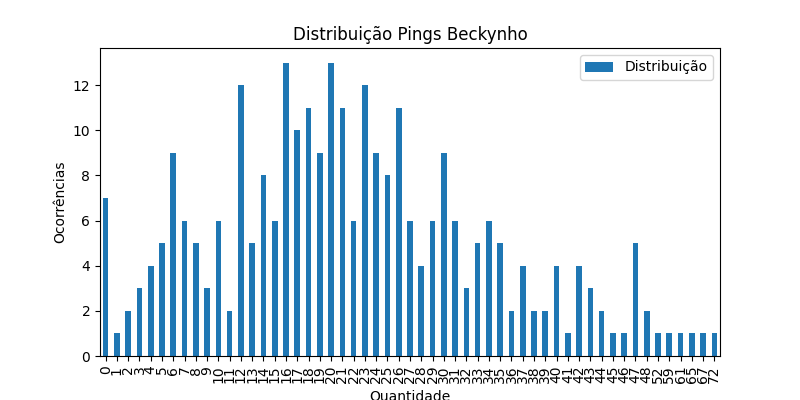
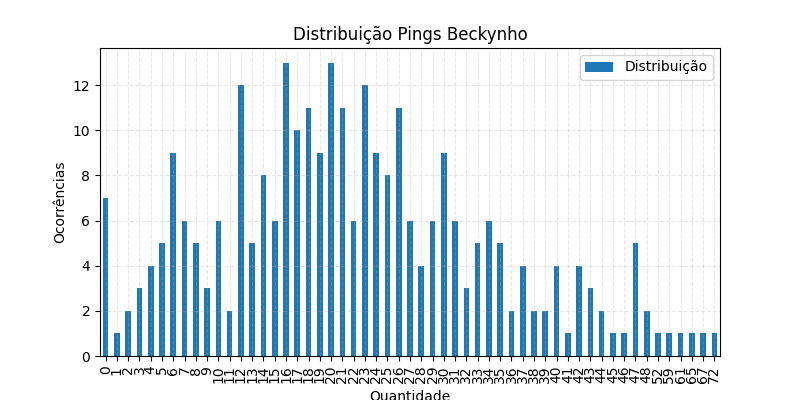
probability densisty chart

diff --git a/main.py b/main.py
@@ -312,6 +312,7 @@ def analysis_ping_overview(geral_pings_overview, save_path, player_alias):
     axs_total_pings.set_xlabel("")
     axs_total_pings.set_ylabel("Quantidade de Pings")
     axs_total_pings.set_title(f"Dispersão Pings {player_alias.capitalize()}")
+    axs_total_pings.grid(True, alpha=0.3, linestyle="--")
 
     file_total_pings = f"{save_path}ping_overview_total_{player_alias}_scatter"
     fig_total_pings.savefig(file_total_pings)
@@ -328,6 +329,7 @@ def analysis_ping_overview(geral_pings_overview, save_path, player_alias):
     axs_ratio_pings.set_xlabel("")
     axs_ratio_pings.set_ylabel("Pings/Minuto")
     axs_ratio_pings.set_title(f"Frequência Pings {player_alias.capitalize()}")
+    axs_ratio_pings.grid(True, alpha=0.3, linestyle="--")
 
     file_ratio_pings = f"{save_path}ping_overview_ratio_{player_alias}_line"
     fig_ratio_pings.savefig(file_ratio_pings)
@@ -390,20 +392,22 @@ def analysis_ping_overview(geral_pings_overview, save_path, player_alias):
 
     # 4
     # Calculating mean and Stdev of AGW
-    df_mean = np.mean(df["totalPings"])
-    df_std = np.std(df["totalPings"])
-    
+
+   
+    # Ping Match Distribution Range Chart 
+    axs_probability_density_pings = plt.subplots(figsize=(8, 4))
     # Calculating probability density function (PDF)
-    pdf = stats.norm.pdf(df["totalPings"].sort_values(), df_mean, df_std)
-
-    # Drawing a graph
-    plt.plot(df["totalPings"].sort_values(), pdf)
-    plt.xlim([0,70])  
-    plt.xlabel("x", size=12)    
-    plt.ylabel("y", size=12)                
+    axs_probability_density_pings = stats.norm.pdf(df["totalPings"].sort_values(), pings_mean, pings_std)
+    
+    plt.plot(df["totalPings"].sort_values(), axs_probability_density_pings)
+    plt.xlim([0,df["totalPings"].max()])  
+    plt.xlabel("Frequência", size=12)    
+    plt.ylabel("Quantidade", size=12)        
+    plt.title(f"Probabilidade Densidade {player_alias.capitalize()}")        
     plt.grid(True, alpha=0.3, linestyle="--")
-    plt.show()
-
+    plt.savefig(f"{save_path}ping_probability_density_{player_alias}_line")
+    
+    plt.close()
 
     # Ping Match Distribution Overview Line Chart
     fig_distribution_pings, axs_distribution_pings = plt.subplots(figsize=(8, 4))
@@ -413,6 +417,7 @@ def analysis_ping_overview(geral_pings_overview, save_path, player_alias):
     axs_distribution_pings.set_xlabel("Quantidade")
     axs_distribution_pings.set_ylabel("Ocorrências")
     axs_distribution_pings.set_title(f"Distribuição Pings {player_alias.capitalize()}")
+    axs_distribution_pings.grid(True, alpha=0.3, linestyle="--")
 
     file_distribution_pings = f"{save_path}ping_overview_distribution_{player_alias}_bar"
     fig_distribution_pings.savefig(file_distribution_pings)
